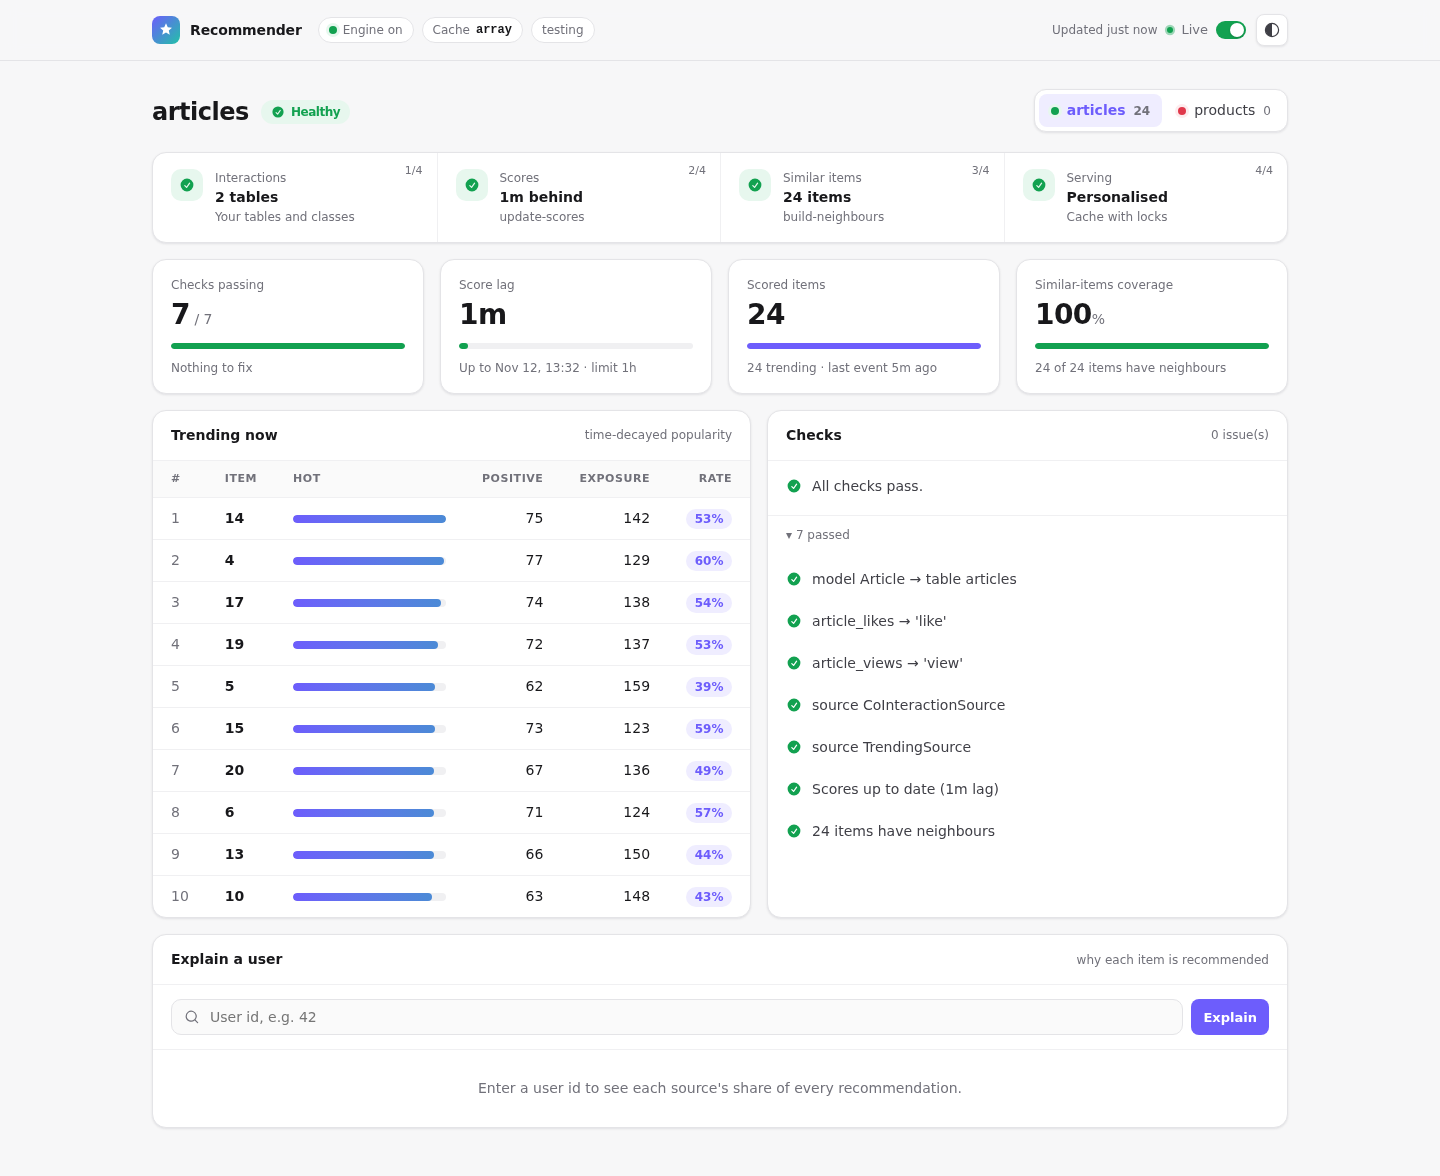
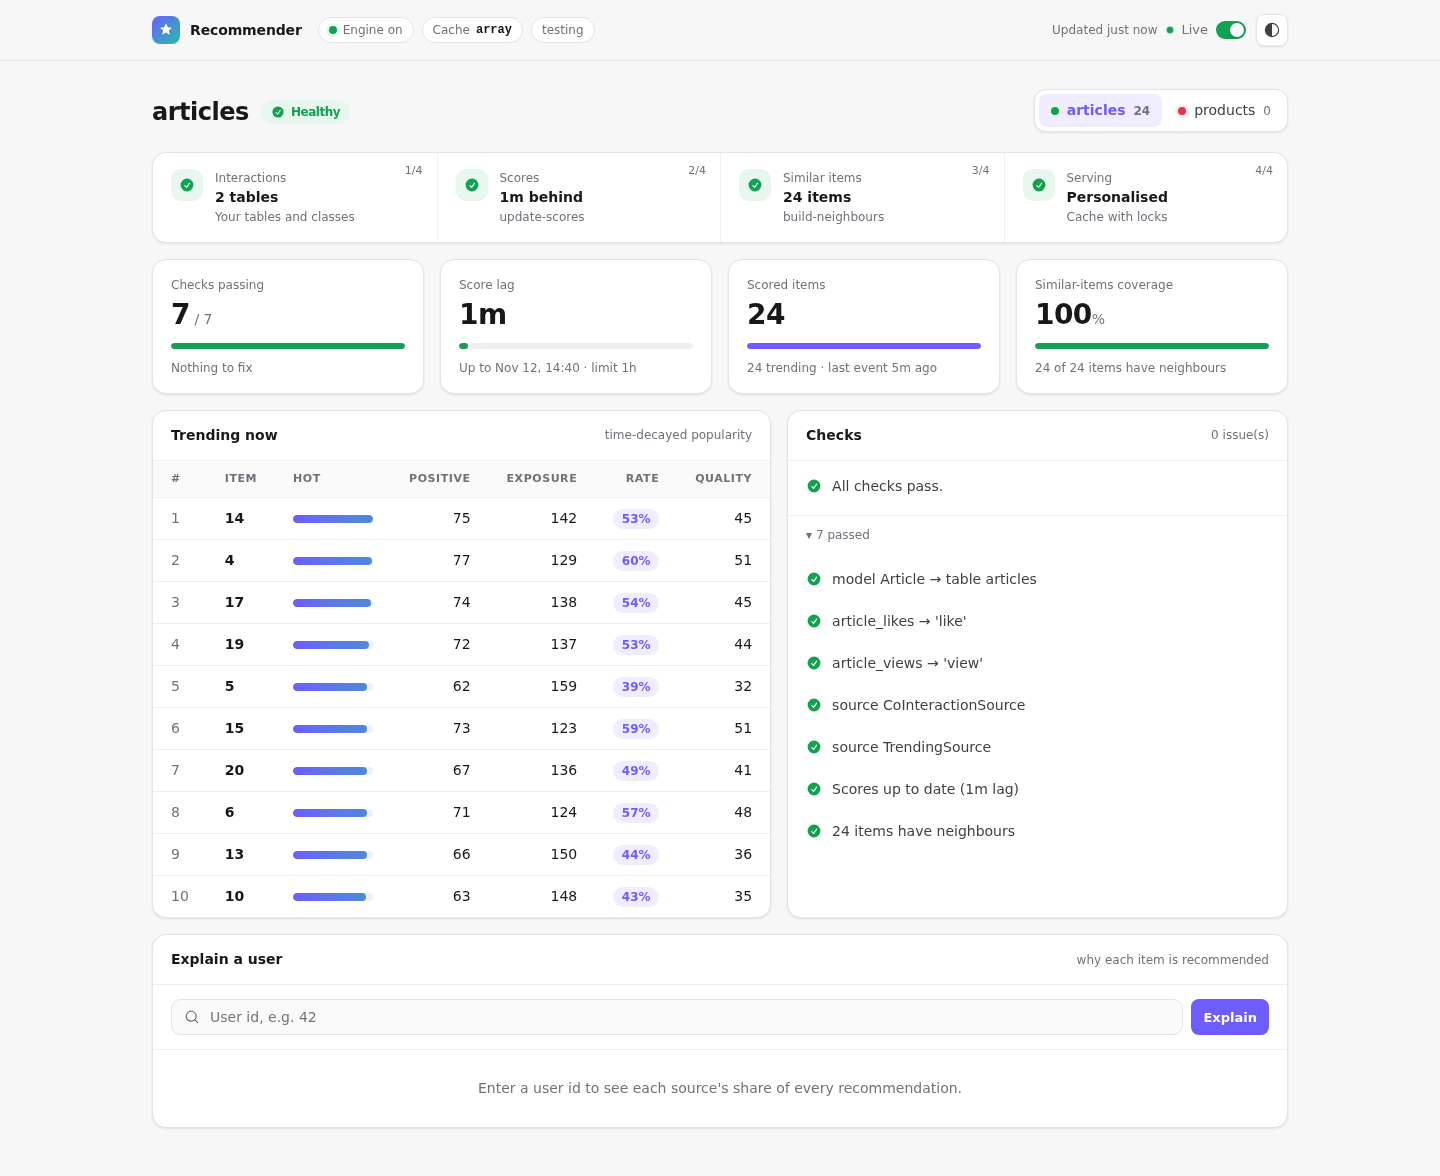
chore: release v0.2.0
Refresh every guide, the agent skill and all screenshots for 0.2
(config-only make-feed, rebuild-scores, explain positions, item stats);
0.2.x branch alias and security policy; tidy rebuild-scores output.

diff --git a/src/Console/RebuildScoresCommand.php b/src/Console/RebuildScoresCommand.php
@@ -24,13 +24,12 @@ class RebuildScoresCommand extends Command
         $days = is_numeric($daysOption) ? max(1, (int) $daysOption) : $feed->int('scores_backfill_days', 30);
         $plan = $rebuilder->plan($feed, $days);
 
-        $this->table(['', ''], [
-            ['feed', $plan['feed']],
-            ['score rows to delete', number_format($plan['rows'])],
-            ['current watermark', $plan['watermark'] ?? '—'],
-            ['replay window', "{$plan['from']} → {$plan['to']} ({$days} days)"],
-            ['previous rebuild', $plan['interrupted'] ? 'interrupted — this run finishes it' : '—'],
-        ]);
+        $this->components->twoColumnDetail('Feed', $plan['feed']);
+        $this->components->twoColumnDetail('Score rows to delete', number_format($plan['rows']));
+        $this->components->twoColumnDetail('Current watermark', $plan['watermark'] ?? '—');
+        $this->components->twoColumnDetail('Replay window', "{$plan['from']} → {$plan['to']} ({$days} days)");
+        $this->components->twoColumnDetail('Previous rebuild', $plan['interrupted'] ? 'interrupted — this run finishes it' : '—');
+        $this->newLine();
 
         if ($this->option('dry-run')) {
             $this->info('Dry run: nothing changed.');

diff --git a/skills/laravel-recommender/SKILL.md b/skills/laravel-recommender/SKILL.md
@@ -1,9 +1,9 @@
 ---
 name: laravel-recommender
 description: >-
-  Wire solutionforest/laravel-recommender into a Laravel app: scaffold feeds,
-  InteractionSource / ItemFilter / CardTransformer, config weights, scores /
-  neighbours jobs, FeedPage::toPaginator, cache locks. Use when adding a
+  Wire solutionforest/laravel-recommender into a Laravel app: config-only feeds
+  (model + interaction tables), recommendations() helper, config weights, scores /
+  neighbours jobs, recommender:doctor, the /recommender dashboard, item stats, cache locks. Use when adding a
   recommendation engine, for-you feed, personalised ranking, co-interaction /
   trending, inspiration or blog recommendations, or replacing RAND()/Personalize.
 ---
@@ -39,34 +39,21 @@ php artisan migrate
 
 Creates `rec_item_scores`, `rec_item_neighbours`, `rec_state`.
 
-2. **Scaffold a feed** (do not hand-roll the three classes from scratch)
+2. **Register a feed** — config only; prefer this
 
 ```bash
-# Interactive Laravel Prompts wizard (presets + optional 3rd event)
-php artisan recommender:make-feed
-
-# Non-interactive
+php artisan recommender:make-feed                       # interactive wizard (presets + optional 3rd event)
 php artisan recommender:make-feed posts -n
 php artisan recommender:make-feed products --preset=products -n
-php artisan recommender:make-feed events --preset=events -n
 php artisan recommender:make-feed reviews --model=App\\Models\\Comment --likes=user_fav_comments --views=user_clicks --item-column=comment_id -n
 ```
 
-Produces under `app/Recommendation/{Feed}/`:
+It writes `feeds.{name}` with `model` + `interactions` (`[table => event]`; `item_column` only if not `{model}_id`) and prints two optional model methods:
+`scopeRecommendable(Builder $q, Context $context)` (who may see an item) and `toRecommendationCard()` (JSON, no viewer-specific fields), plus `use Recommendable;` for card invalidation. Ids may be int / UUID / ULID. See `examples/simple`.
 
-- `*InteractionSource` — streams interactions from **app** tables (any event names: like / view / share / …)  
+   Custom queries (single events table, joins): `make-feed posts --classes` scaffolds `InteractionSource` / `ItemFilter` / `CardTransformer` under `app/Recommendation/{Feed}/`.
 
-- `*ItemFilter` / `Visible*` — who may see an item  
-- `*CardTransformer` — JSON/card shape (no viewer-specific fields)
-
-Registers `config/recommender.php` → `feeds.{name}`.
-
-3. **Edit the three classes** to match real table/column names (`TABLES`, `ITEM_COLUMN`, published rules, owner column).
-
-   **Simpler alternative (prefer when tables are `user_id` / `{model}_id` / `created_at`):** no classes at all —
-   `'posts' => ['model' => Post::class, 'interactions' => ['post_likes' => 'like', 'post_views' => 'view']]`,
-   plus optional `scopeRecommendable(Builder $q, Context $context)` and `toRecommendationCard()` on the model
-   and `use Recommendable;` for card invalidation. See `examples/simple`.
+3. **Check it**: `php artisan recommender:doctor {feed}` — tables, columns, event weights, classes; fix what it reports.
 
 4. **Cook once**
 

diff --git a/docs/operations.md b/docs/operations.md
@@ -7,13 +7,14 @@ Go-live, storage, locks, FAQ, roadmap.
 | Step | Action | Why |
 |---|---|---|
 | 1 | `php artisan migrate` | `rec_*` tables |
-| 2 | Scaffold a feed | `php artisan recommender:make-feed posts` (config + 3 classes) |
+| 2 | Register a feed | `php artisan recommender:make-feed posts` (config-only: model + interaction tables) |
 | 3 | Index your interaction / item tables | Sources are your SQL |
 | 4 | `recommender:update-scores {feed}` | Fill `hot` / quality |
 | 5 | `recommender:build-neighbours {feed}` | Fill graph |
-| 6 | `recommender:explain {feed} {userId}` | Expect personal sources |
+| 6 | `recommender:doctor` and `recommender:explain {feed} {userId}` | All checks pass; expect personal sources |
 | 7 | Schedule three jobs | See [reference](reference.md#background-jobs) |
 | 8 | Cache with locks (`redis` or `database`+`cache_locks`) + `queue:work --queue=recommender` | Build locks + warm builds |
+| 9 | `Gate::define('viewRecommender', …)` | Dashboard at `/recommender` in production |
 
 ### Historical imports and score rebuilds
 
@@ -25,6 +26,8 @@ To recompute one feed from scratch — after importing old interactions, or chan
 php artisan recommender:rebuild-scores posts --days=365 --dry-run   # what would happen
 php artisan recommender:rebuild-scores posts --days=365             # asks for confirmation (--force to skip)
 ```
+
+![recommender:rebuild-scores --dry-run](../art/screenshots/terminal-rebuild.png)
 
 It deletes only that feed's score rows and watermark, replays the window, and refreshes trending. It never double-counts: a marker is written first, and while it exists `update-scores` refuses that feed (other feeds keep updating). If the rebuild is interrupted, `recommender:doctor` and the dashboard show it — run the same command again to finish. Rebuild neighbours separately if `history_days` changed; cached user lists refresh within `feed_ttl`. Expect temporarily missing scores for the feed while it runs, so prefer a quiet hour for long windows.
 
@@ -166,7 +169,7 @@ No — long pool then `hasMore` false / seen recycle. Catalog tail is app-side (
 
 ## Roadmap / wishlist
 
-Done in 0.1.x / 0.2: config-only feeds, dashboard + `doctor`, guided `rebuild-scores`, explain with final / cached positions, card invalidation on model save, ids with commas, a config-only `make-feed`.
+Done in 0.1 / 0.2: config-only feeds, dashboard + `doctor`, guided `rebuild-scores`, explain with final / cached positions, card invalidation on model save, ids with commas, a config-only `make-feed`, per-item `stats()` (quality / popularity).
 
 Next, in order:
 

diff --git a/docs/dashboard.md b/docs/dashboard.md
@@ -16,7 +16,7 @@ https://your-app.test/recommender
 | Title & feed tabs | The feed's status (**Healthy / Warnings / Failing**) and, with several feeds, one tab per feed with its status dot and scored-item count. |
 | Pipeline | The four steps a feed goes through — **Interactions → Scores → Similar items → Serving** — so you see at a glance *where* it is broken. |
 | Cards | Checks passing, score lag against the 1-hour limit, scored items, and similar-items coverage (share of items that have neighbours). |
-| Trending now | Top 10 items by time-decayed popularity, with positive (e.g. likes) and exposure (e.g. views) counts and their rate. |
+| Trending now | Top 10 items by time-decayed popularity, with positive (e.g. likes) and exposure (e.g. views) counts, their rate, and **quality** (the rate adjusted for how much evidence there is, 0–100). |
 | Checks | Problems first, each with its fix; passing checks fold away. |
 | Explain a user | Enter a user id to see why each item is ranked, as a stacked bar of every source's share of the score. |
 
@@ -24,7 +24,7 @@ https://your-app.test/recommender
 
 ![Explain a user](../art/screenshots/dashboard-explain.png)
 
-Each bar is the item's score split by source (the parts add up to the score). **Final** is the item's position after exploration and diversity in this fresh build, and **Served** its position in the list the user gets right now — so you can tell a ranking question from a caching one. `CoInteractionSource` means “people who liked what this user liked also liked this”, and `TrendingSource` means “popular right now”. A user who only gets `TrendingSource` rows has too little history or no shared interactions yet. Explain runs a fresh build before exploration and diversity, so it can differ slightly from the cached page. Live refresh pauses while a user is explained, so the build does not repeat.
+Each bar is the item's score split by source (the parts add up to the score). **Final** is the item's position after exploration and diversity in this fresh build, and **Served** its position in the list the user gets right now — so you can tell a ranking question from a caching one. `CoInteractionSource` means “people who liked what this user liked also liked this”, and `TrendingSource` means “popular right now”. A user who only gets `TrendingSource` rows has too little history or no shared interactions yet. Exploration is shuffled on every build, so *Final* can move between runs. Live refresh pauses while a user is explained, so the build does not repeat.
 
 ### Checks
 

diff --git a/CHANGELOG.md b/CHANGELOG.md
@@ -7,11 +7,15 @@ This project uses [Semantic Versioning](https://semver.org/).
 
 ## [Unreleased]
 
+## [0.2.0] — 2026-11-12
+
+Finishes the improvements list: safe score rebuilds, an explain that shows the real order, a config-only `make-feed`, per-item quality stats. Upgrading: see [UPGRADE.md](UPGRADE.md) (nothing to change in apps).
+
 ### Added
 - `recommender:rebuild-scores {feed} --days= --dry-run --force` — recompute one feed's scores over a window; confirmation, never double-counts, an interrupted rebuild blocks `update-scores` for that feed until rerun (shown by `doctor` / dashboard)
 - `explain()` rows include `final` (position after exploration and diversity), `cached` (position in the served list) and `exploration`; shown by `recommender:explain` and the dashboard
 - `Recommender::stats($feed, $items)` and `$model->recommendationStats($feed)`: positive / exposure counts, rate, confidence-adjusted `quality` (Wilson) and relative `popularity` per item; quality column in the dashboard's trending table
-- Docs: [hiding an item](docs/reference.md#hiding-an-item-visibility-changes) recipe, covered by a test
+- Docs: [hiding an item](docs/reference.md#hiding-an-item-visibility-changes) recipe, covered by a test; all guides, the agent skill and screenshots refreshed for 0.2
 
 ### Changed
 - `recommender:make-feed` registers a **config-only feed** (model + interaction tables) and prints the model methods to add; `--classes` generates the previous `InteractionSource` / `ItemFilter` / `CardTransformer` classes
@@ -185,7 +189,8 @@ First minor release: a feed is now **configuration only** — tell the package w
 [0.0.2]: https://github.com/solutionforest/laravel-recommender/releases/tag/v0.0.2
 [0.0.1]: https://github.com/solutionforest/laravel-recommender/releases/tag/v0.0.1
 
-[Unreleased]: https://github.com/solutionforest/laravel-recommender/compare/v0.1.1...HEAD
+[Unreleased]: https://github.com/solutionforest/laravel-recommender/compare/v0.2.0...HEAD
+[0.2.0]: https://github.com/solutionforest/laravel-recommender/compare/v0.1.1...v0.2.0
 [0.1.1]: https://github.com/solutionforest/laravel-recommender/compare/v0.1.0...v0.1.1
 [0.1.0]: https://github.com/solutionforest/laravel-recommender/compare/v0.0.15...v0.1.0
 [0.0.15]: https://github.com/solutionforest/laravel-recommender/compare/v0.0.14...v0.0.15

diff --git a/docs/tuning.md b/docs/tuning.md
@@ -19,9 +19,9 @@ Start with the generated defaults and change one setting at a time. [Getting sta
 'exposure_events' => ['view'],
 ```
 
-Used by `update-scores` when folding events into `hot`. Only keys in `events` with weight `> 0` count. Raise stronger actions if they should dominate trending; raise `view` if browse volume should matter more. The updater only processes events after its watermark: a rerun does not recalculate past events with new weights. For a historical rebuild, follow [operations](operations.md#historical-imports-and-score-rebuilds).
+Used by `update-scores` when folding events into `hot`. Only keys in `events` with weight `> 0` count. Raise stronger actions if they should dominate trending; raise `view` if browse volume should matter more. The updater only processes events after its watermark: a rerun does not recalculate past events with new weights. To apply new weights to past events, run `recommender:rebuild-scores {feed}` ([operations](operations.md#historical-imports-and-score-rebuilds)).
 
-For neighbours (`build-neighbours`), put the items you care about in `userHistories()` / `recentItems()` — usually strong actions, not every view.
+For neighbours (`build-neighbours`), only strong actions count by default: `history_events`, which defaults to `positive_events` (e.g. likes, joins, purchases — not every view). With an `InteractionSource` class, return the same from `userHistories()` / `recentItems()`.
 
 ## Sponsors (certain posts / shops more often)
 
@@ -75,7 +75,7 @@ Raising freshness a lot makes **every cohort look the same**. Prefer recipe A fo
 
 1. Pick 2–3 real users with different signals.
 2. `php artisan recommender:explain {feed} {userId} --limit=12`.
-3. If you only see `Fresh*` / `Trending*`, personal sources may be weak or empty. `explain` builds a fresh pre-exploration, pre-diversity ranking; it does not inspect the cached page.
+3. If you only see `Fresh*` / `Trending*`, personal sources may be weak or empty. `explain` builds a fresh ranking: rows are in score order, with each item's `final` position (after exploration and diversity) and `cached` position in the served list.
 4. Change **one** weight; forget user + trending cache; re-explain.
 5. Watch latency: `source_limit` / `feed_size` / heavy SQL dominate cold builds.
 

diff --git a/AGENTS.md b/AGENTS.md
@@ -6,7 +6,7 @@ Human docs live under [`docs/`](docs/). Prefer linking there over pasting walls 
 
 | Doc | Use for |
 |---|---|
-| [docs/tutorial.md](docs/tutorial.md) | Scaffold checklist (`make-feed`) |
+| [docs/tutorial.md](docs/tutorial.md) | First feed: config-only (`make-feed`) or classes (`--classes`) |
 | [docs/getting-started.md](docs/getting-started.md) | First-time wiring (slower) |
 | [docs/how-it-works.md](docs/how-it-works.md) | Mental model |
 | [docs/tuning.md](docs/tuning.md) | Weights / lessons |
@@ -22,8 +22,8 @@ Human docs live under [`docs/`](docs/). Prefer linking there over pasting walls 
 ## When working in a **consuming Laravel app**
 
 1. `composer require solutionforest/laravel-recommender` → `php artisan migrate`
-2. Simplest: config-only feed — `'model' => Post::class, 'interactions' => ['post_likes' => 'like', …]` (see `examples/simple`). Otherwise `php artisan recommender:make-feed` (wizard) or `… posts -n`, then tweak scaffolded classes
-3. `recommender:update-scores` → `build-neighbours` → `explain {feed} {userId}`
+2. Simplest: config-only feed — `'model' => Post::class, 'interactions' => ['post_likes' => 'like', …]` (see `examples/simple`). `php artisan recommender:make-feed posts` writes it for you; `--classes` scaffolds InteractionSource / ItemFilter / CardTransformer for custom queries
+3. `recommender:doctor` → `update-scores` → `build-neighbours` → `explain {feed} {userId}`; watch `/recommender`; `Recommender::stats($feed, $item)` for per-item quality
 4. Serve with `recommendations('posts', $request->user())` (or `Recommender::page()`) — return it directly for paginator JSON
 5. Schedule scores / neighbours / prune; cache with locks (`redis` or `database`+`cache_locks`)
 

diff --git a/docs/tutorial.md b/docs/tutorial.md
@@ -108,7 +108,7 @@ php artisan recommender:explain posts 123
 
 Replace `123` with an actual user ID. The score command skips the newest minute to allow writes to settle and reads the last 30 days on its first run by default. `status` shows the watermark, score rows and neighbour rows. A watermark alone does not mean events were found.
 
-Neighbours need overlapping user histories: by default an item pair must have at least two shared users. A small or new dataset may legitimately have no neighbours; trending can still work if scores exist. `explain` is a fresh diagnostic ranking, before exploration and diversity, and may differ from a cached page.
+Neighbours need overlapping user histories: by default an item pair must have at least two shared users. A small or new dataset may legitimately have no neighbours; trending can still work if scores exist. `explain` is a fresh ranking; its *final* and *cached* columns show where each item lands after exploration and diversity and in the list the user is served now.
 
 ## 4. Serve a page
 

diff --git a/README.md b/README.md
@@ -112,7 +112,7 @@ Gate::define('viewRecommender', fn ($user) => $user->is_admin);
 php artisan recommender:explain posts 123
 ```
 
-Replace `123` with a real user ID. This shows source and booster scores for a fresh build before exploration and diversity; it is a diagnostic, not a guarantee of the exact cached page. If the user has little history or few shared interactions, trending may be the only useful signal. See [tuning](docs/tuning.md) before changing weights.
+Replace `123` with a real user ID. Each row shows the score per source, the item's **final** position after exploration and diversity, and where it sits in the list the user is **served** right now. `Recommender::stats('posts', $post)` tells you how good one item is (rate, confidence-adjusted quality, popularity). If the user has little history or few shared interactions, trending may be the only useful signal. See [tuning](docs/tuning.md) before changing weights.
 
 ## For coding agents
 

diff --git a/SECURITY.md b/SECURITY.md
@@ -4,8 +4,8 @@
 
 | Version | Supported |
 |---|---|
-| 0.1.x | ✅ |
-| < 0.1 | ❌ |
+| 0.2.x | ✅ |
+| < 0.2 | ❌ |
 
 ## Reporting a vulnerability
 
